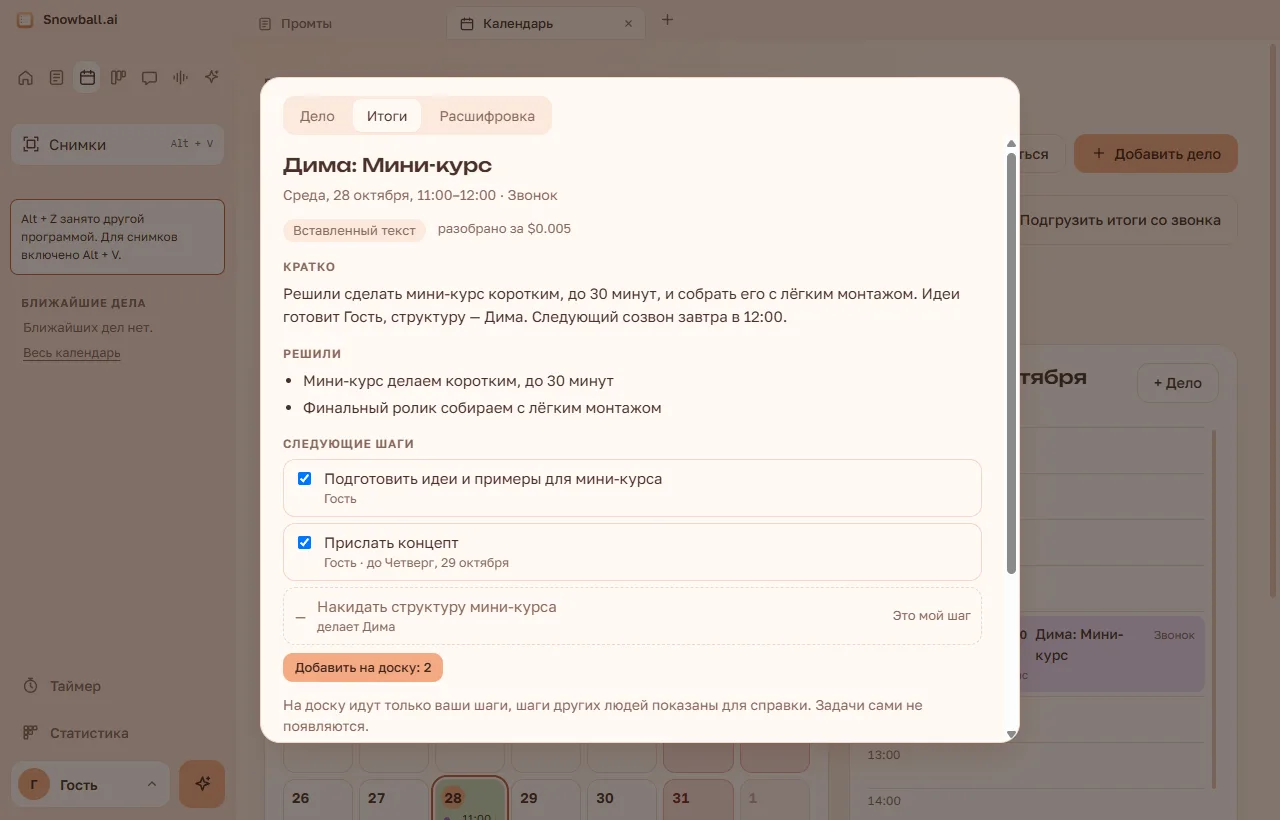
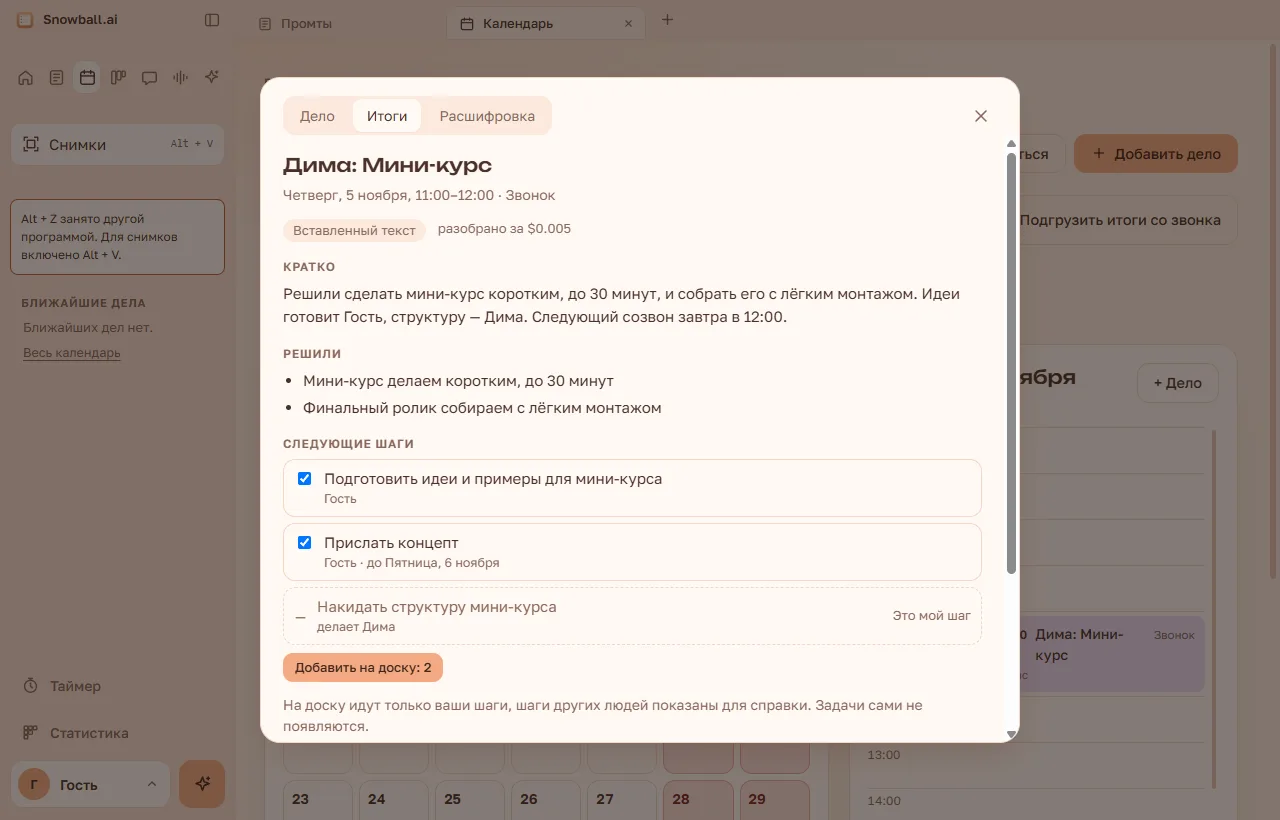
Версия 1.20.8: кнопка закрытия дела

diff --git a/src/guides/guides.js b/src/guides/guides.js
@@ -99,7 +99,7 @@ window.GUIDES = [
         { box: "macos", at: [700, 800], label: "macOS", text: "Вернуться к macOS можно так же. Выбранный цвет и оформление программа запомнит." }] }
     ] }
   ] },
-  { version: "1.17.0", section: "calendar", title: "Календарь: итоги созвонов", steps: [
+  { version: "1.17.0", updated: "1.20.8", section: "calendar", title: "Календарь: итоги созвонов", steps: [
     { title: "Загрузите итоги созвона", lead: "Итоги — это текст из другой программы (например, Wispr Flow) или расшифровка разговора. Программа сама найдёт в нём главное. Нужен ключ ChatGPT или Claude в «Настройках».", frames: [
       { name: "1. Нажмите", shot: "01-where", points: [
         { box: "load", at: [1100, 330], label: "Подгрузить итоги", text: "Кнопка справа от строки ассистента. Откроет окно, куда вставляется текст итогов." },
@@ -112,8 +112,9 @@ window.GUIDES = [
         { box: "file", at: [1050, 640], label: "Или файл", text: "Подойдут txt, md, srt, vtt и csv до 5 МБ." },
         { box: "go", at: [250, 640], label: "Разобрать итоги", text: "Занимает до минуты и стоит несколько центов. Сколько потрачено, видно в деле." }] }
     ] },
-    { title: "Итоги в деле", lead: "У дела сверху кнопки. «Дело» — главная вкладка с обычной формой, она открывается первой. Когда итоги загружены, рядом появляются «Итоги» и «Расшифровка».", frames: [
+    { title: "Итоги в деле", lead: "У дела сверху кнопки. «Дело» — главная вкладка с обычной формой, она открывается первой. Когда итоги загружены, рядом появляются «Итоги» и «Расшифровка». Крестик справа вверху закрывает окно на любой вкладке.", frames: [
       { name: "1. Нажмите", shot: "02-open", points: [
+        { box: "close", at: [1000, 240], label: "Закрыть", text: "Крестик справа вверху закрывает окно на любой вкладке и остаётся видимым при прокрутке." },
         { box: "sum", at: [1000, 130], label: "Итоги", text: "Нажмите «Итоги». Если итогов ещё нет, здесь можно вставить текст прямо в это дело." },
         { box: "tr", at: [1000, 190], label: "Расшифровка", text: "Весь загруженный текст с поиском. Вкладка появляется, когда итоги загружены." },
         { box: "form", at: [1000, 420], label: "Обычная форма", text: "Время, тема, напоминание и заметка — как раньше." }] },

diff --git a/src/styles.css b/src/styles.css
@@ -1864,9 +1864,18 @@ h1 .brand { color: var(--accent-strong); }
 .cal-recap > .editor-actions { margin-top: 12px; }
 .cal-recap > .rd-hint { margin: 14px 0 0; }
 .cal-dialog.wide { width: min(760px, calc(100vw - 32px)); }
-.cal-tabs { display: flex; gap: 4px; margin: 18px 22px 0; padding: 3px; border-radius: 12px; background: var(--surface-2); width: fit-content; }
+.cal-dialog-head { position: sticky; top: 0; z-index: 1; display: flex; align-items: center; gap: 8px; padding: 18px 20px 0 22px; background: var(--surface); }
+.cal-tabs { display: flex; gap: 4px; padding: 3px; border-radius: 12px; background: var(--surface-2); width: fit-content; min-width: 0; }
 .cal-tabs button { padding: 6px 14px; border: 0; border-radius: 9px; background: none; color: var(--ink-soft); font: inherit; font-size: 14px; cursor: pointer; }
 .cal-tabs button[aria-selected="true"] { background: var(--surface); color: var(--ink); box-shadow: var(--shadow); }
+.cal-close { flex: 0 0 36px; width: 36px; height: 36px; margin-left: auto; display: grid; place-items: center; border: 0; border-radius: 8px; background: transparent; color: var(--ink-soft); cursor: pointer; }
+.cal-close:hover, .cal-close:focus-visible { background: var(--surface-2); color: var(--ink); }
+.cal-close svg { width: 16px; height: 16px; fill: none; stroke: currentColor; stroke-width: 1.5; stroke-linecap: round; }
+@media (max-width: 440px) {
+  .cal-dialog-head { padding-left: 12px; padding-right: 12px; gap: 4px; }
+  .cal-tabs { gap: 0; }
+  .cal-tabs button { padding-left: 7px; padding-right: 7px; font-size: 13px; }
+}
 .cal-recap { padding: 16px 22px 22px; max-height: min(74vh, 720px); overflow-y: auto; }
 .rc-head { display: flex; align-items: flex-start; justify-content: space-between; gap: 12px; }
 .rc-head h2 { margin: 0; }

diff --git a/src/guides/1.17.0/boxes.js b/src/guides/1.17.0/boxes.js
@@ -1,3 +1,3 @@
 // Made by tools/guide-shots/run.js: where the buttons are on each screenshot of this guide (pixels of 1280 × 820).
 window.GUIDE_BOXES = window.GUIDE_BOXES || {};
-window.GUIDE_BOXES["1.17.0"] = {"01b-load":{"event":[433,287,414,39],"text":[433,362,414,238],"file":[598,612,150,39],"go":[433,612,153,39]},"01-where":{"bar":[264,195,703,52],"load":[977,195,261,50],"flag":[928,626,13,13],"help":[878,134,188,39]},"02-open":{"form":[411,76,443,742],"tabs":[433,37,269,39],"sum":[503,40,69,33],"tr":[575,40,124,33]},"02b-recap":{"tabs":[283,96,269,39],"brief":[283,258,699,71],"decisions":[283,345,699,75],"steps":[283,435,699,301]},"03-steps":{"mine":[283,242,699,58],"other":[283,370,699,58],"add":[283,436,160,30],"meet":[803,568,168,30]},"03b-board":{"column":[266,331,264,274],"card":[277,382,242,89],"tag":[320,438,186,21]},"04-text":{"tab":[425,248,124,33],"search":[283,369,714,43],"lines":[283,424,714,45],"foot":[283,489,714,83]}};
+window.GUIDE_BOXES["1.17.0"] = {"01b-load":{"event":[433,287,414,39],"text":[433,362,414,238],"file":[598,612,150,39],"go":[433,612,153,39]},"01-where":{"bar":[264,195,703,52],"load":[977,195,261,50],"flag":[928,626,13,13],"help":[878,134,188,39]},"02-open":{"form":[411,76,443,742],"tabs":[433,37,269,39],"sum":[503,40,69,33],"tr":[575,40,124,33],"close":[798,39,36,36]},"02b-recap":{"tabs":[283,96,269,39],"brief":[283,258,699,71],"decisions":[283,345,699,75],"steps":[283,435,699,301]},"03-steps":{"mine":[283,242,699,58],"other":[283,370,699,58],"add":[283,436,160,30],"meet":[803,568,168,30]},"03b-board":{"column":[266,331,264,274],"card":[277,382,242,89],"tag":[320,438,186,21]},"04-text":{"tab":[425,248,124,33],"search":[283,369,714,43],"lines":[283,424,714,45],"foot":[283,489,714,83]}};

diff --git a/tools/guide-shots/shots-1.17.0.js b/tools/guide-shots/shots-1.17.0.js
@@ -16,6 +16,8 @@ module.exports = async function ({ main, page, shot }) {
   // Refresh this window's own state after the direct API saves (sync is sent only to other windows).
   await page.send('Page.reload', {});
   await until("document.querySelector('#side-name')?.textContent === 'Гость'");
+  // Another Snowball window may own the shortcut on the test machine; keep that test-only warning out of the guide.
+  await ev("document.getElementById('capture-shortcut-notice').hidden = true");
   await closeDialogs();
   await click('[data-page="calendar"]');
   await until('!!document.querySelector("#cal-recap-btn") && !!document.querySelector(".cal-ev")');
@@ -35,7 +37,7 @@ module.exports = async function ({ main, page, shot }) {
   // Step 2: the event opens on «Дело», the summary is one button away.
   await ev(`document.querySelector('.cal-ev .flag').closest('.cal-ev').click()`);
   await until('document.getElementById("cal-dialog").open && !document.getElementById("cal-tabs").hidden');
-  await shot('02-open', { form: '#cal-form', tabs: '#cal-tabs', sum: '#cal-tab-sum', tr: '#cal-tab-tr' });
+  await shot('02-open', { form: '#cal-form', tabs: '#cal-tabs', sum: '#cal-tab-sum', tr: '#cal-tab-tr', close: '#cal-close' });
   await click('#cal-tab-sum');
   await until('!!document.querySelector("#cal-recap .rc-step")');
   await shot('02b-recap', { tabs: '#cal-tabs', brief: '#cal-recap .rc-blk:nth-child(2)', decisions: '#cal-recap .rc-blk:nth-child(3)', steps: '#cal-recap .rc-blk:nth-child(4)' });

diff --git a/src/index.html b/src/index.html
@@ -766,10 +766,13 @@
 </dialog>
 
 <dialog class="cal-dialog" id="cal-dialog" aria-labelledby="cal-form-title">
-  <div class="cal-tabs" id="cal-tabs" role="tablist" hidden>
-    <button type="button" role="tab" data-tab="ev">Дело</button>
-    <button type="button" role="tab" data-tab="sum" id="cal-tab-sum">Итоги</button>
-    <button type="button" role="tab" data-tab="tr" id="cal-tab-tr" hidden>Расшифровка</button>
+  <div class="cal-dialog-head">
+    <div class="cal-tabs" id="cal-tabs" role="tablist" hidden>
+      <button type="button" role="tab" data-tab="ev">Дело</button>
+      <button type="button" role="tab" data-tab="sum" id="cal-tab-sum">Итоги</button>
+      <button type="button" role="tab" data-tab="tr" id="cal-tab-tr" hidden>Расшифровка</button>
+    </div>
+    <button type="button" class="cal-close" id="cal-close" aria-label="Закрыть" title="Закрыть"><svg viewBox="0 0 16 16" aria-hidden="true"><path d="M3 3l10 10M13 3L3 13"/></svg></button>
   </div>
   <div class="cal-recap" id="cal-recap" hidden></div>
   <form class="cal-form" id="cal-form" novalidate>

diff --git a/src/app.js b/src/app.js
@@ -2339,6 +2339,7 @@
     });
   });
   els.cfCancel.addEventListener("click", closeEventForm);
+  $("cal-close").addEventListener("click", closeEventForm);
   // Close on a click outside only if it also started outside: dragging the note's resize handle and letting go
   // over the dark area is not a click outside.
   var calDownOnBackdrop = false;

diff --git a/CHANGELOG.md b/CHANGELOG.md
@@ -1,5 +1,11 @@
 # Что нового в Snowball.ai
 
+## 1.20.8
+
+### Календарь
+- В окне дела справа вверху появилась кнопка **«Закрыть»**. Она доступна на вкладках «Дело», «Итоги» и «Расшифровка» и остаётся на месте при прокрутке.
+- Обновлена инструкция к итогам созвонов.
+
 ## 1.20.7
 
 ### Обновление
